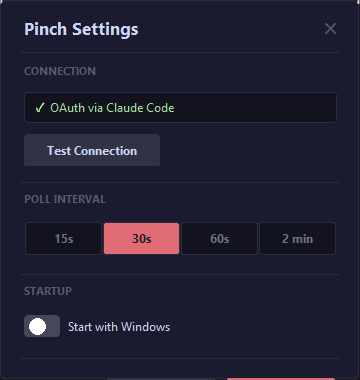
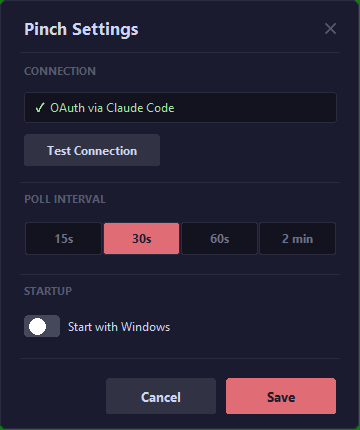
Fix settings window — increase height so buttons aren't clipped
WIN_H 380 → 430. Save/Cancel buttons were starting at y=378 in a
380px window, cutting them off entirely.

diff --git a/src/pinch/settings_ui.py b/src/pinch/settings_ui.py
@@ -18,7 +18,7 @@ from . import settings
 log = logging.getLogger(__name__)
 
 WIN_W = 360
-WIN_H = 380
+WIN_H = 430
 BG = "#1a1b2e"
 SURFACE = "#12131e"
 BORDER = "#2a2b3d"
